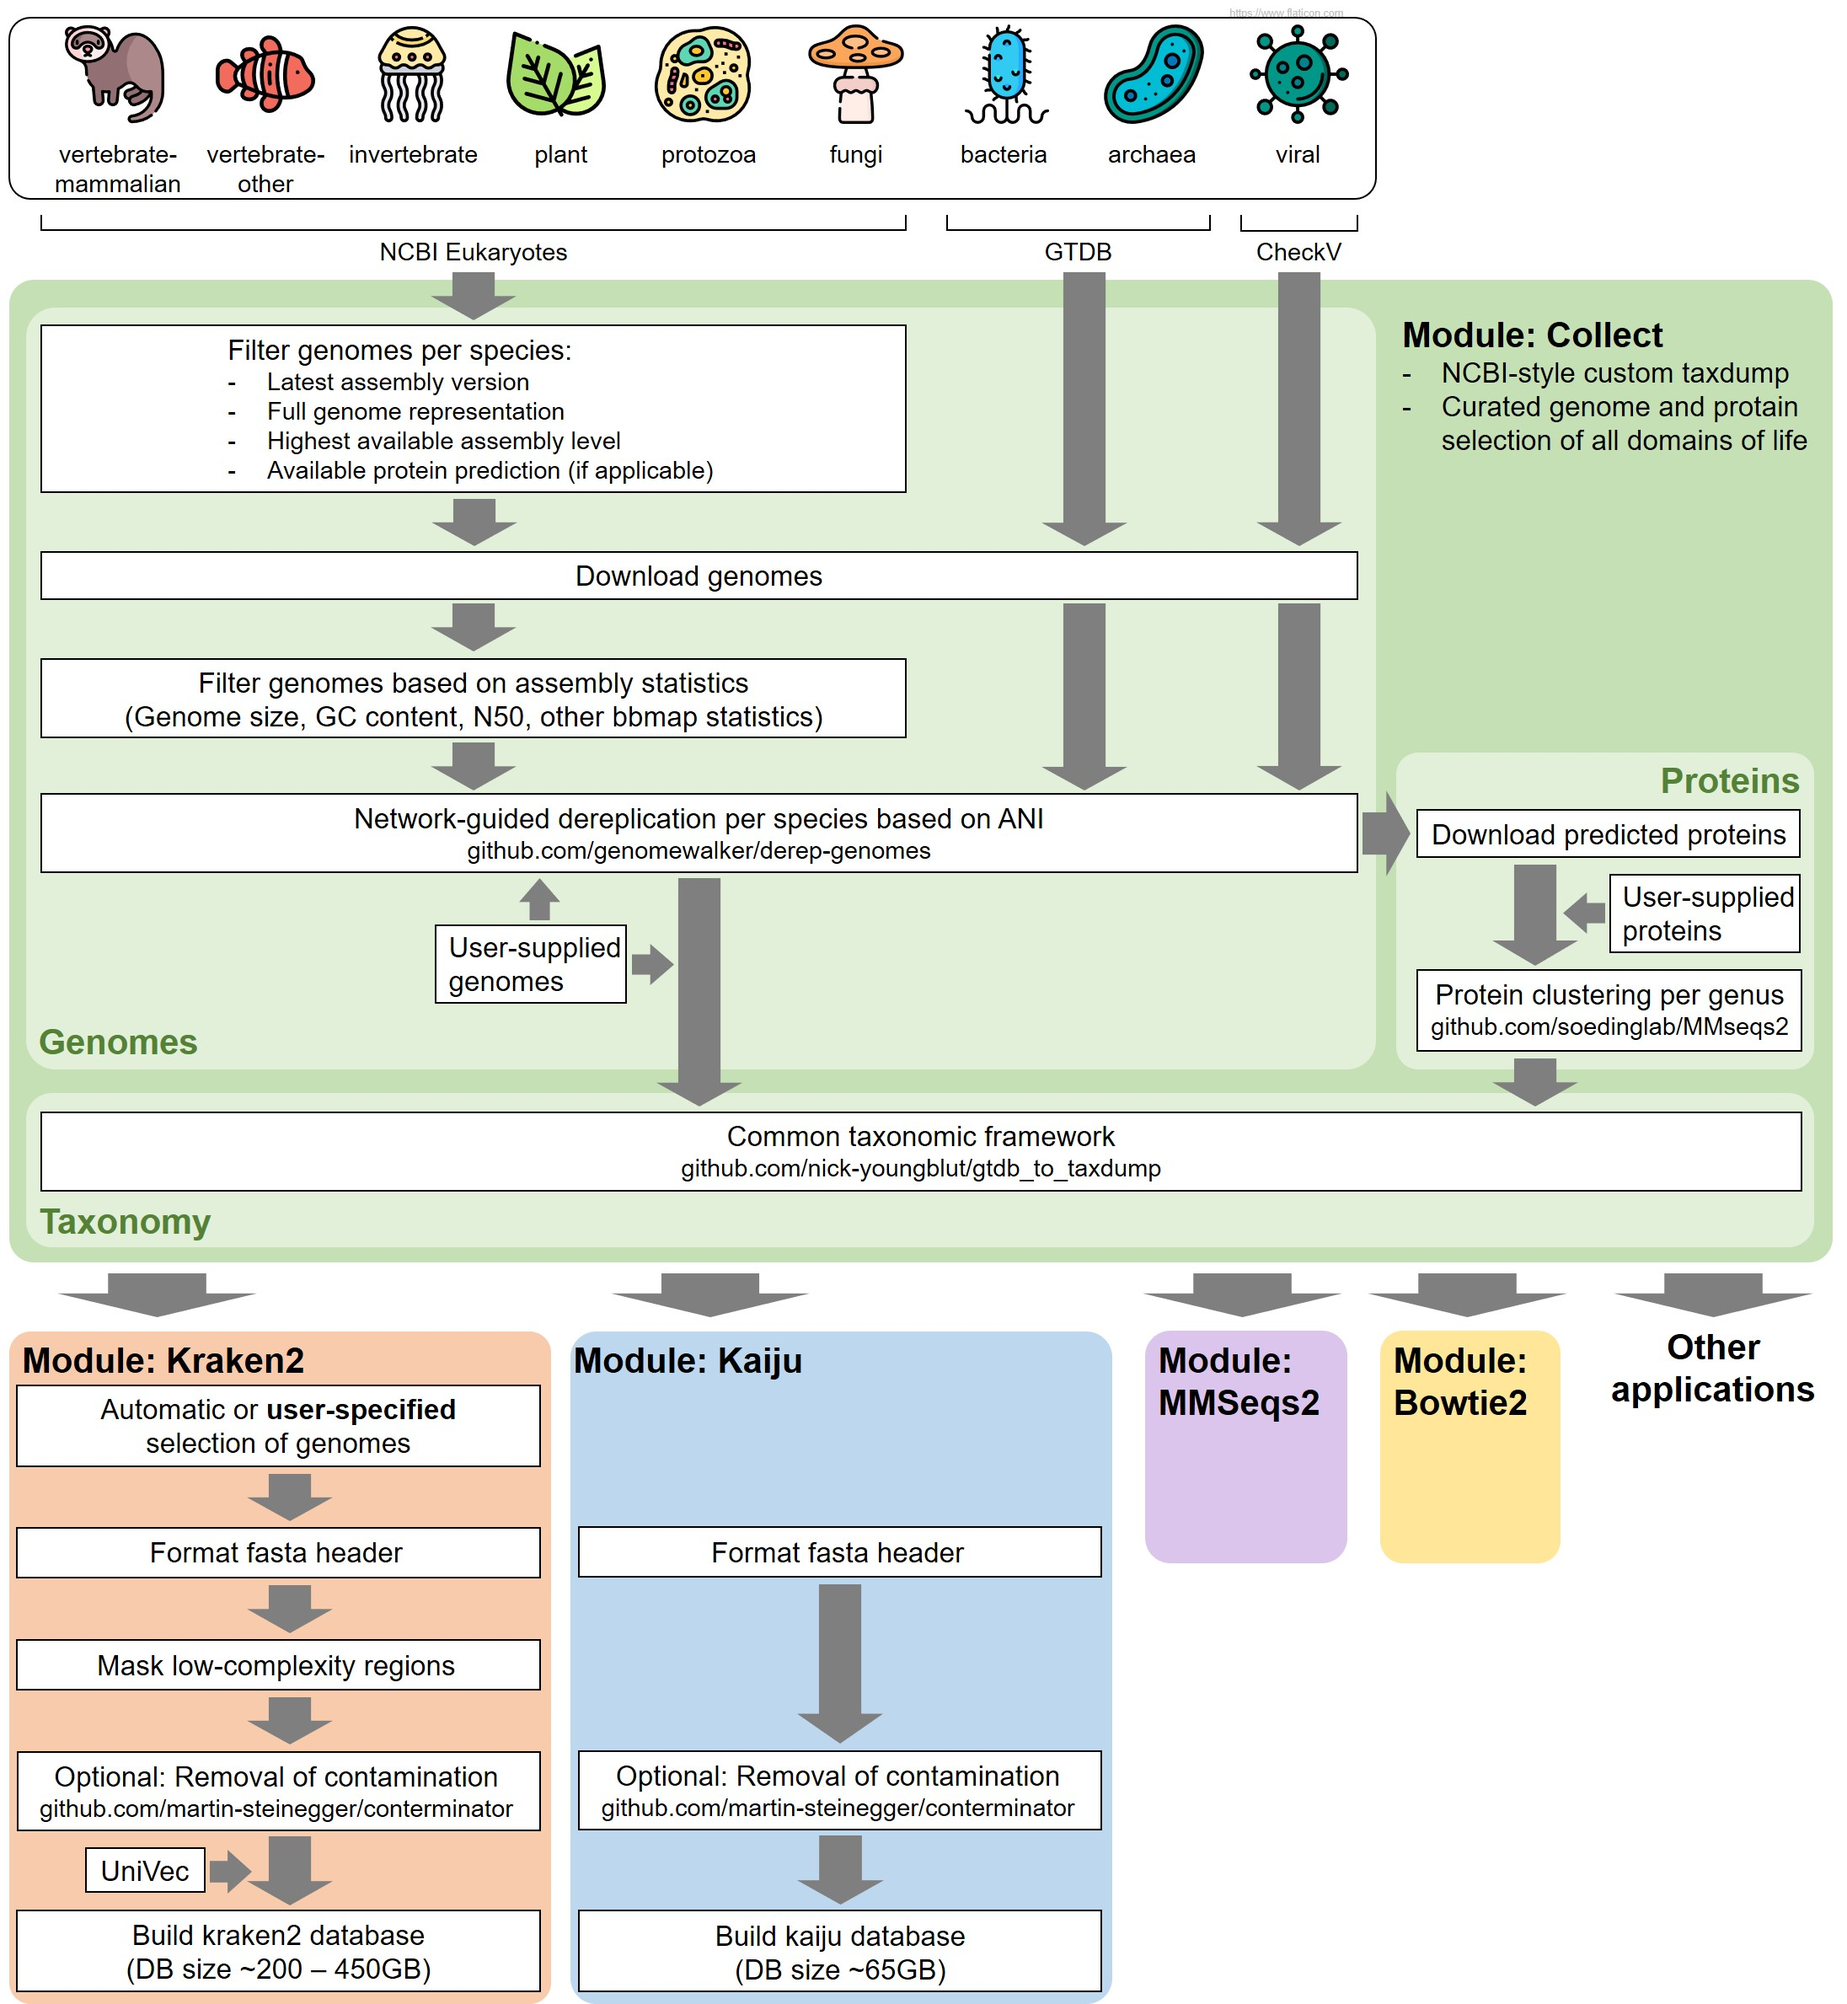
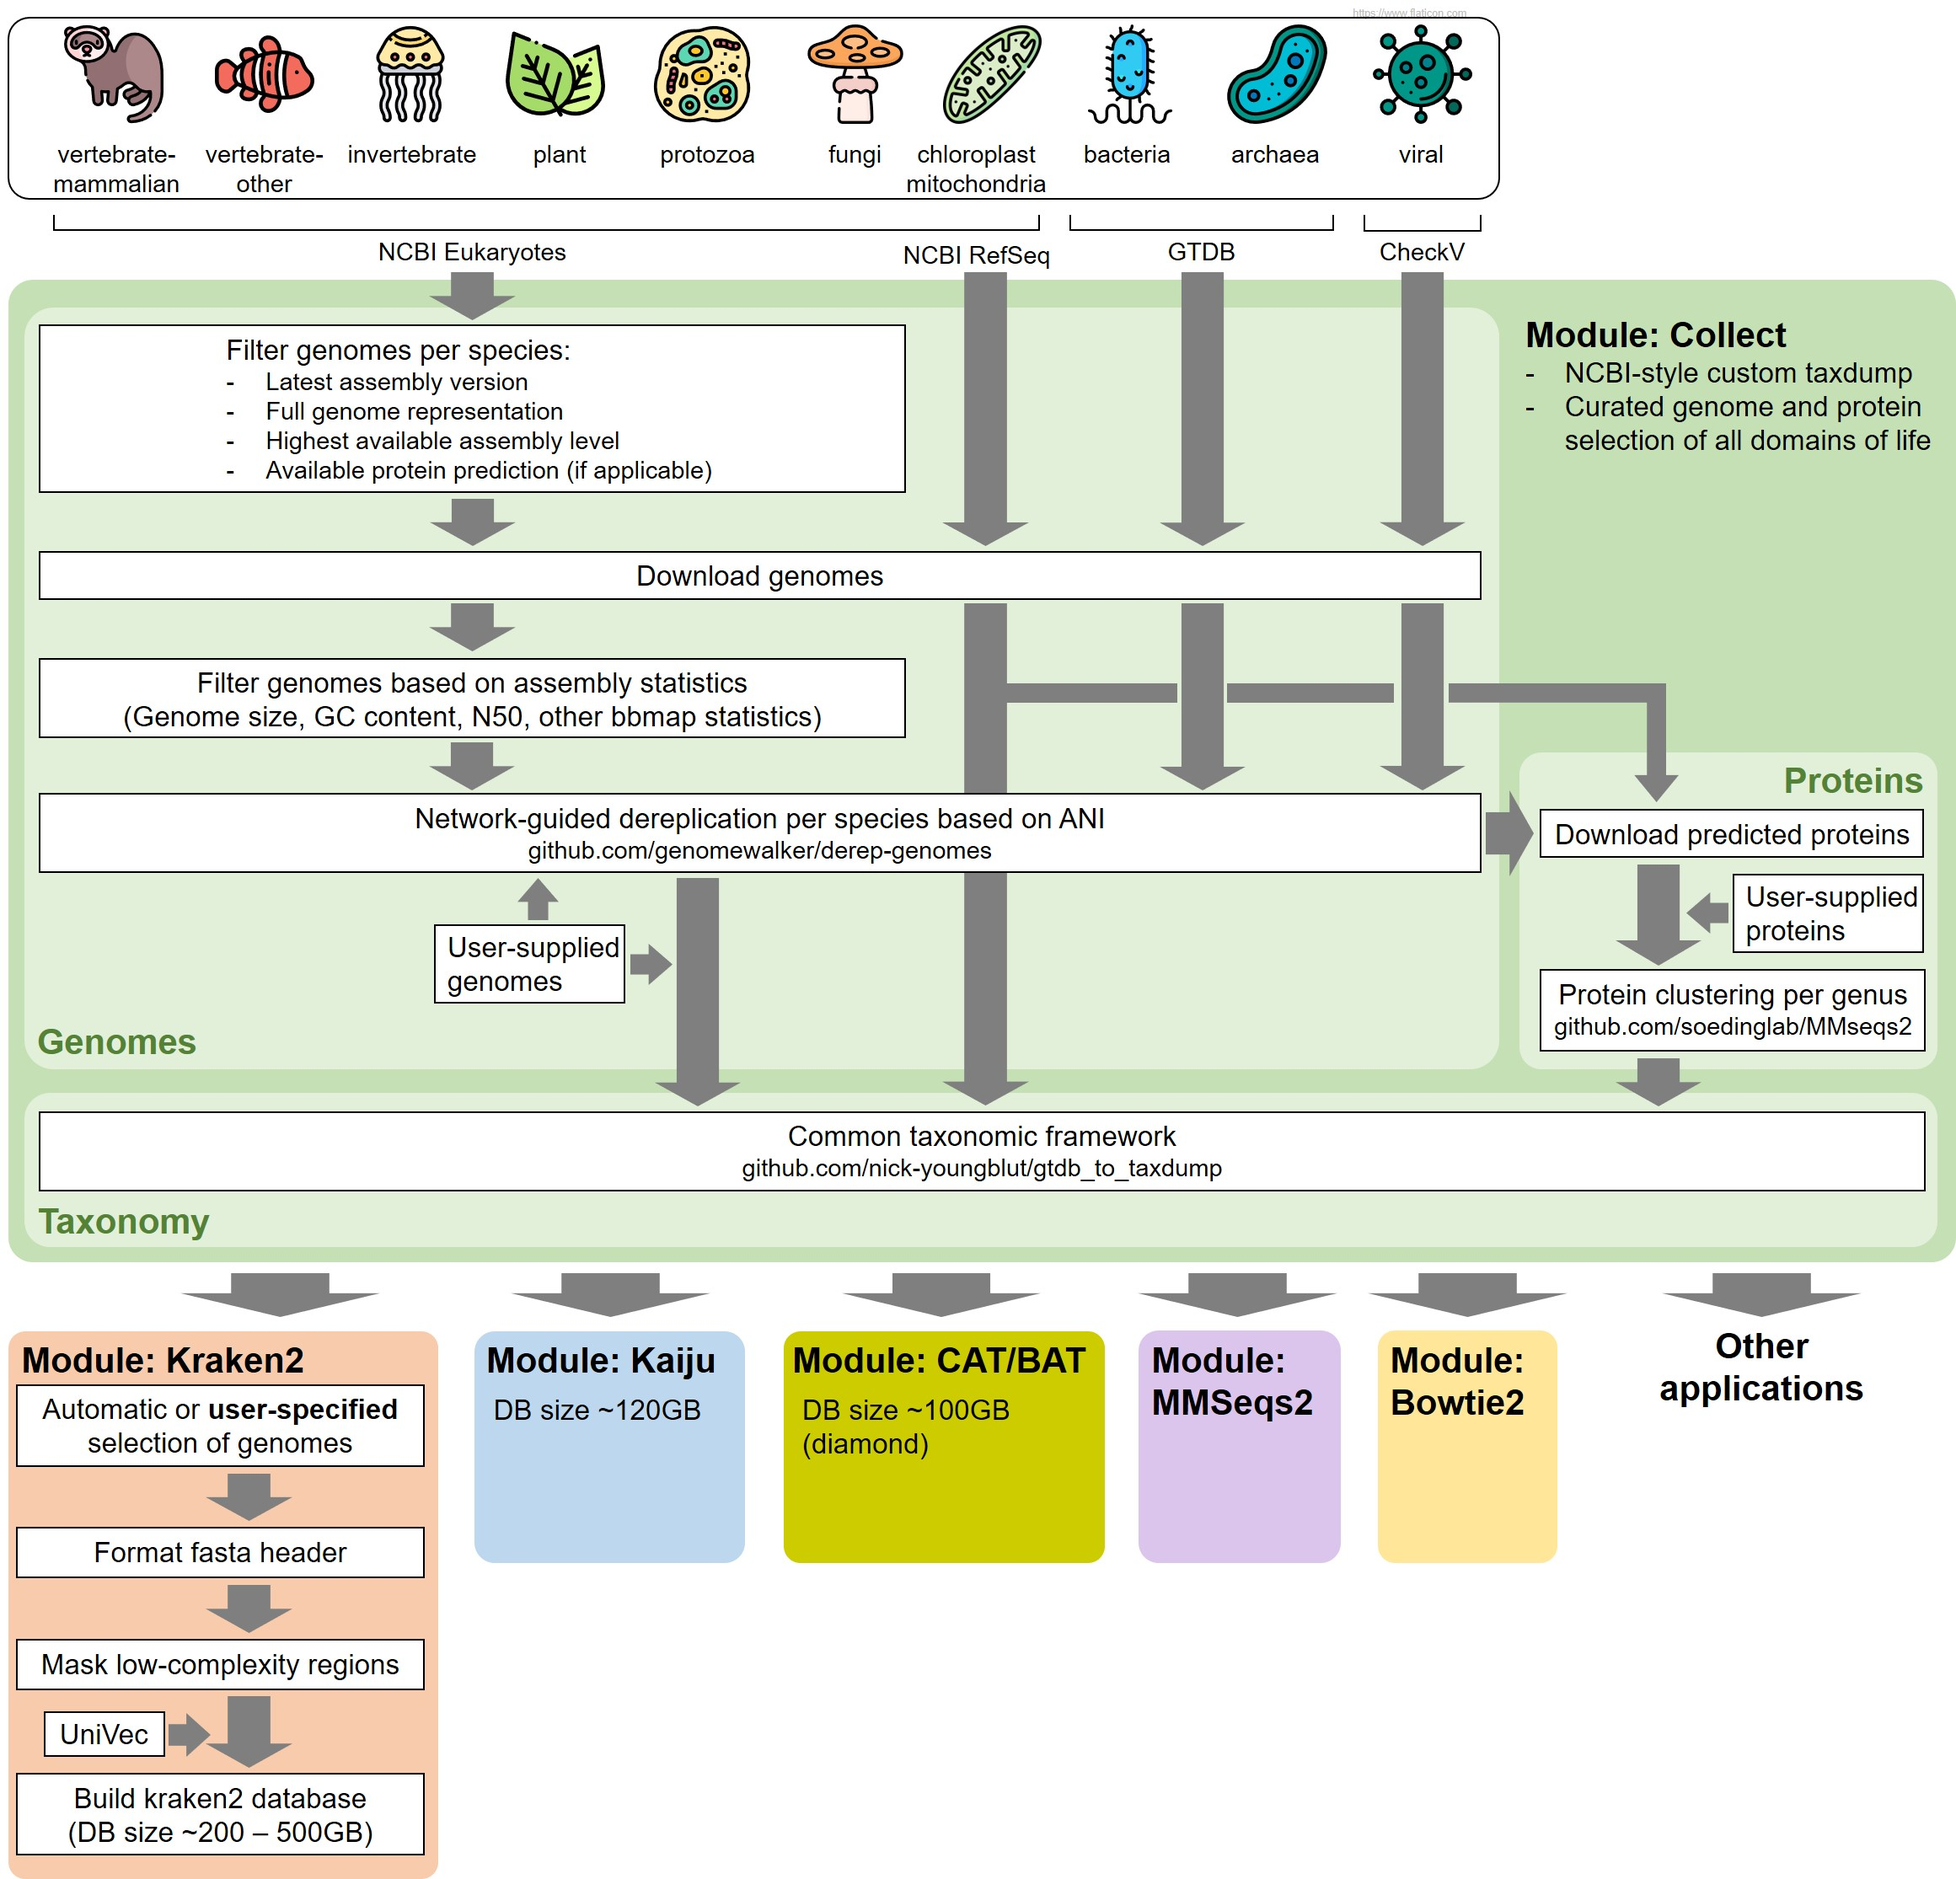
updated readme

diff --git a/README.md b/README.md
@@ -2,8 +2,8 @@
 Current metagenomic reference databases are often either limited in their taxonomic representation, restricted to a sepcific domain of life, biased towards model taxa, prone to contamination, or too large to handle computationally. This workflow aims to address these limitations by providing a flexible, user-configurable pipeline to generate cross-domain databases that allow for the classification of metagenomic reads at a high specificity and sensitivity. 
 To allow a flexible selection of genomes (nucleotide and protein sequences) for a variety of classification tools, the workflow is structured into modules.
 Its main feature include:
-* The basis of the workflow is the **COLLECT** module, which retrieves nucleotide and protein sequences from various sources, such as [GTDB](https://gtdb.ecogenomic.org/), [CheckV](https://bitbucket.org/berkeleylab/checkv/src/master/), NCBI refseq and genbank, and includes the option to provide additional user-specified custom assemblies as input, e.g. from [TARA](https://www.genoscope.cns.fr/tara/) or [EukProt](https://figshare.com/articles/dataset/EukProt_a_database_of_genome-scale_predicted_proteins_across_the_diversity_of_eukaryotic_life/12417881/2). Then, suitable genomes for the reference database are selected by a [network-guided dereplication](https://github.com/genomewalker/derep-genomes) based on ANI to achieve an even representation of the known biodiversity. The **COLLECT** module further generates a common taxonomic framework for all input genomes and provides NCBI-style taxdump files and accession2taxid mapping files as output.
-* The output of the **COLLECT** module can then be used as input for several sequence classification tools. We provide here the workflow to generate [kraken2](https://github.com/DerrickWood/kraken2) and [kaiju](https://github.com/bioinformatics-centre/kaiju) databases offering several presets to determine the taxonomic resolution (and size) of the database. Specifically, we recommend a 2-step classification process for nucleotide level where reads are first sorted by domain using a cross-domain database, followed by the classification at a high taxonomic resolution of reads within each domain or larger taxonomic target group (e.g. prokaryotes and viruses, lower eukaryotes and plants, metazoa), thereby reducing computational demands without lowering performance.
+* The basis of the workflow is the **COLLECT** module, which retrieves nucleotide and protein sequences from various sources, such as [GTDB](https://gtdb.ecogenomic.org/), [CheckV](https://bitbucket.org/berkeleylab/checkv/src/master/), NCBI refseq and genbank, and includes the option to provide additional user-specified custom assemblies as input. At the moment, already formatted taxonomy tables for the [TARA MAGs and SMAGs](https://www.genoscope.cns.fr/tara/) and [giant virus collection](https://figshare.com/ndownloader/files/32385995) are included, as well as resources from [EukProt](https://ndownloader.figshare.com/files/23580944) and [MMETSP](https://zenodo.org/record/3247846/files/mmetsp_dib_trinity_zenodo.fasta.tar.gz?download=1). Suitable genomes for the reference database are selected by a [network-guided dereplication](https://github.com/genomewalker/derep-genomes) based on ANI to achieve an even representation of the known biodiversity. The **COLLECT** module further generates a common taxonomic framework for all input genomes and provides NCBI-style taxdump files and accession2taxid mapping files as output.
+* The output of the **COLLECT** module can then be used as input for several sequence classification tools. We provide here the workflow to generate [kraken2](https://github.com/DerrickWood/kraken2),  [kaiju](https://github.com/bioinformatics-centre/kaiju), [CAT/BAT](https://github.com/dutilh/CAT) databases offering several presets to determine the taxonomic resolution (and size) of the database. Specifically, we recommend a 2-step classification process for nucleotide level where reads are first sorted by domain using a cross-domain database, followed by the classification at a high taxonomic resolution of reads within each domain or larger taxonomic target group (e.g. prokaryotes and viruses, lower eukaryotes and plants, metazoa), thereby reducing computational demands without lowering performance.
 * The kraken and kaiju database generation modules include the option to remove cross-domain contamination in the reference genomes using [conterminator](https://github.com/martin-steinegger/conterminator). This feature is experimental at the moment and needs further testing.
 * Portable: The workflow is implemented in snakemake and relies heavily on conda environments
 
@@ -14,6 +14,7 @@ This workflow integrates several open source bioinformatic tools. Therefore, if 
 * Steinegger, M., Salzberg, S. L. (2020). Terminating contamination: large-scale search identifies more than 2,000,000 contaminated entries in GenBank. Genome Biol 21,115. https://doi.org/10.1186/s13059-020-02023-1
 * Menzel, P., Krogh, A. (2016) Kaiju : Fast and sensitive taxonomic classification for metagenomics. Nat Commun 7: 11257. http://dx.doi.org/10.1038/ncomms11257
 * Steinegger, M. & Söding, J. (2017): MMseqs2 enables sensitive protein sequence searching for the analysis of massive data sets. Nat Biotechnol 35:1026–1028. https://doi.org/10.1038/nbt.3988
+* Hyatt, D., Chen, GL., LoCascio, P.F. et al. (2010) Prodigal: prokaryotic gene recognition and translation initiation site identification. BMC Bioinformatics 11, 119. https://doi.org/10.1186/1471-2105-11-119
 
 
 ### Repository contents
@@ -48,9 +49,11 @@ Further details about the configurable parameters are included in the comments o
 
 Eukaryotic reference sequences are retrieved from NCBI. The first step in the workflow is to screen the available collection of genomes on NCBI refseq and genbank based on their assembly quality. This first filter is based on the metadata parameter [assembly_level](https://www.ncbi.nlm.nih.gov/assembly/help/). Possible choices are: ```Contig```, ```Scaffold```, ```Chromosome```, ```Complete Genome```, or ```variable```. ```Contig``` is the most relaxed setting, with which all available genomes will be considered. ```Complete Genome``` is the most stringent setting. If ```variable```, for species with ```Chromosome``` and/or ```Complete Genome```-level assemblies available ```Contig``` and ```Scaffold```-level assemblies will not be included. This constitutes a compromise between excluding incomplete and low-quality assemblies and including species with incomplete assemblies. Apart from the setting for assembly level, this workflow is only considering the latest assembly of NCBI genomes with full genome representation. Furthermore, if genomes with predicted proteins are available per species, assemblies without predicted proteins are excluded from downstream processing. User-supplied genomes are not subject to any filtering. After genome download, assemblies per species are further filtered by genome size, GC-content, and N50 to remove possible outliers. The strignency of this filter is user-configurable.
 
-Prokaryotic and viral genomes are taken from the full GTDB and checkV databases.
+Prokaryotic and viral genomes are taken from the full GTDB and checkV databases. If necessary, proteins will be predicted with [prodigal](https://github.com/hyattpd/Prodigal).
 
 To avoid redundancy, all genomes per species are dereplicated using [derepG](https://github.com/genomewalker/derep-genomes). Please refer to the program repository for further information about parameter setting.
+
+User-supplied genomes and protein sequences can be added pre- or post-dereplication. The preformatted data sets for the TARA, EukProt, and MMETSP resources are included post-derep.
 
 Lastly, the predicted protein sequences for the dereplicated genomes (if avaiable) are downloaded. Also here, the user has the option to provide custom files. Protein sequences are then subject to a second dereplication/clustering using [mmseqs2](https://github.com/soedinglab/MMseqs2).
 
@@ -61,12 +64,12 @@ We modified this script to include 2 additional taxonomic ranks (lineage and kin
 #### Kraken2 module
 
 As the file size of all genomes after dereplication is still too large to be used as input for building a kraken2 database on most systems (>> 1TB), it is necessary to further subset the available genomes to a more manageable number. This can be done manually or by using the presets offered in the kraken2 module of the workflow. Thes presets include:
-* coarse: GTDB and checkV representative genomes, up to 3 (user-configurable) genomes per class and genus for higher and microbial eukaryotes, respectively. The purpose of this database is to sort metagenomic reads by domain for a second classification step with a higher resolved database. The coarse preset includes the option to remove cross-domain contamination.
+* coarse: GTDB and checkV representative genomes, up to 3 (user-configurable) genomes per phylum and family for higher and microbial eukaryotes, respectively. NCBI RefSeq organelle (mitochondria and plastids) are also included. The purpose of this database is to sort metagenomic reads by domain for a second classification step with a higher resolved database. The coarse preset includes the option to remove cross-domain contamination (experimental).
 * highres_pro: Dereplicated GTDB and checkV genomes for high resolution classification of prokaryotic reads. Not recommended without prior sorting by domain.
-* microeuk: Dereplicated (high resolution) protozoa and fungi with representatives of higher plants and metazoa (3 per phylum). All user-supplied taxa are included, which are not represented in the afore-mentioned macro-eukaryotic lineages.
+* microeuk: Dereplicated (high resolution) protozoa and fungi with representatives of higher plants and metazoa (3 per phylum), NCBI RefSeq organelles. All user-supplied taxa are included, which are not represented in the afore-mentioned macro-eukaryotic lineages.
 * highres_plant :warning: not available yet :warning:
 * highres_metazoa :warning: not available yet :warning:
-* onestep: Dereplicated GTDB and checkV genomes, plus up to 3 (user-configurable) genomes per class and family for higher and microbial eukaryotes, respectively, for high resolution classification of prokaryotic reads in one go (CAUTION: DB size exceeding 350GB).
+* onestep: Dereplicated GTDB and checkV genomes, plus up to 3 (user-configurable) genomes per phylum and family for higher and microbial eukaryotes, respectively, plus NCBI RefSeq organelles, for high resolution classification of prokaryotic reads in one go (CAUTION: DB size exceeding 350GB).
 
 For building the kraken2 database, the parameters kmer length, minimizer length, and minimizer spaces can be adjusted depending on the type of reads that you want to classify. We recommend a kmer of ~31-35 and ~25 for modern and ancient metagenomic reads, respectively.
 
@@ -78,12 +81,12 @@ All clustered protein sequences are converted into a kaiju database index. No fu
 
 #### CAT/BAT module
 
-All clustered protein sequences are converted into a diamond database. The taxonomy is formatted to be compatible with the use of [CAT/BAT](https://github.com/dutilh/CAT).
+All clustered protein sequences are converted into a diamond database. The taxonomy is formatted to be compatible with the use of CAT/BAT.
 
 
 ### DB composition
 
-![Number of genomes (sequences) per domain and taxonomic level represented in the database](https://github.com/chassenr/taxdb-integration/blob/master/images/db_stats.jpg)
+![Number of genomes per domain and taxonomic level represented in the database](https://github.com/chassenr/taxdb-integration/blob/master/images/db_stats.jpg)
 
 
 ### Next steps and ToDos:
